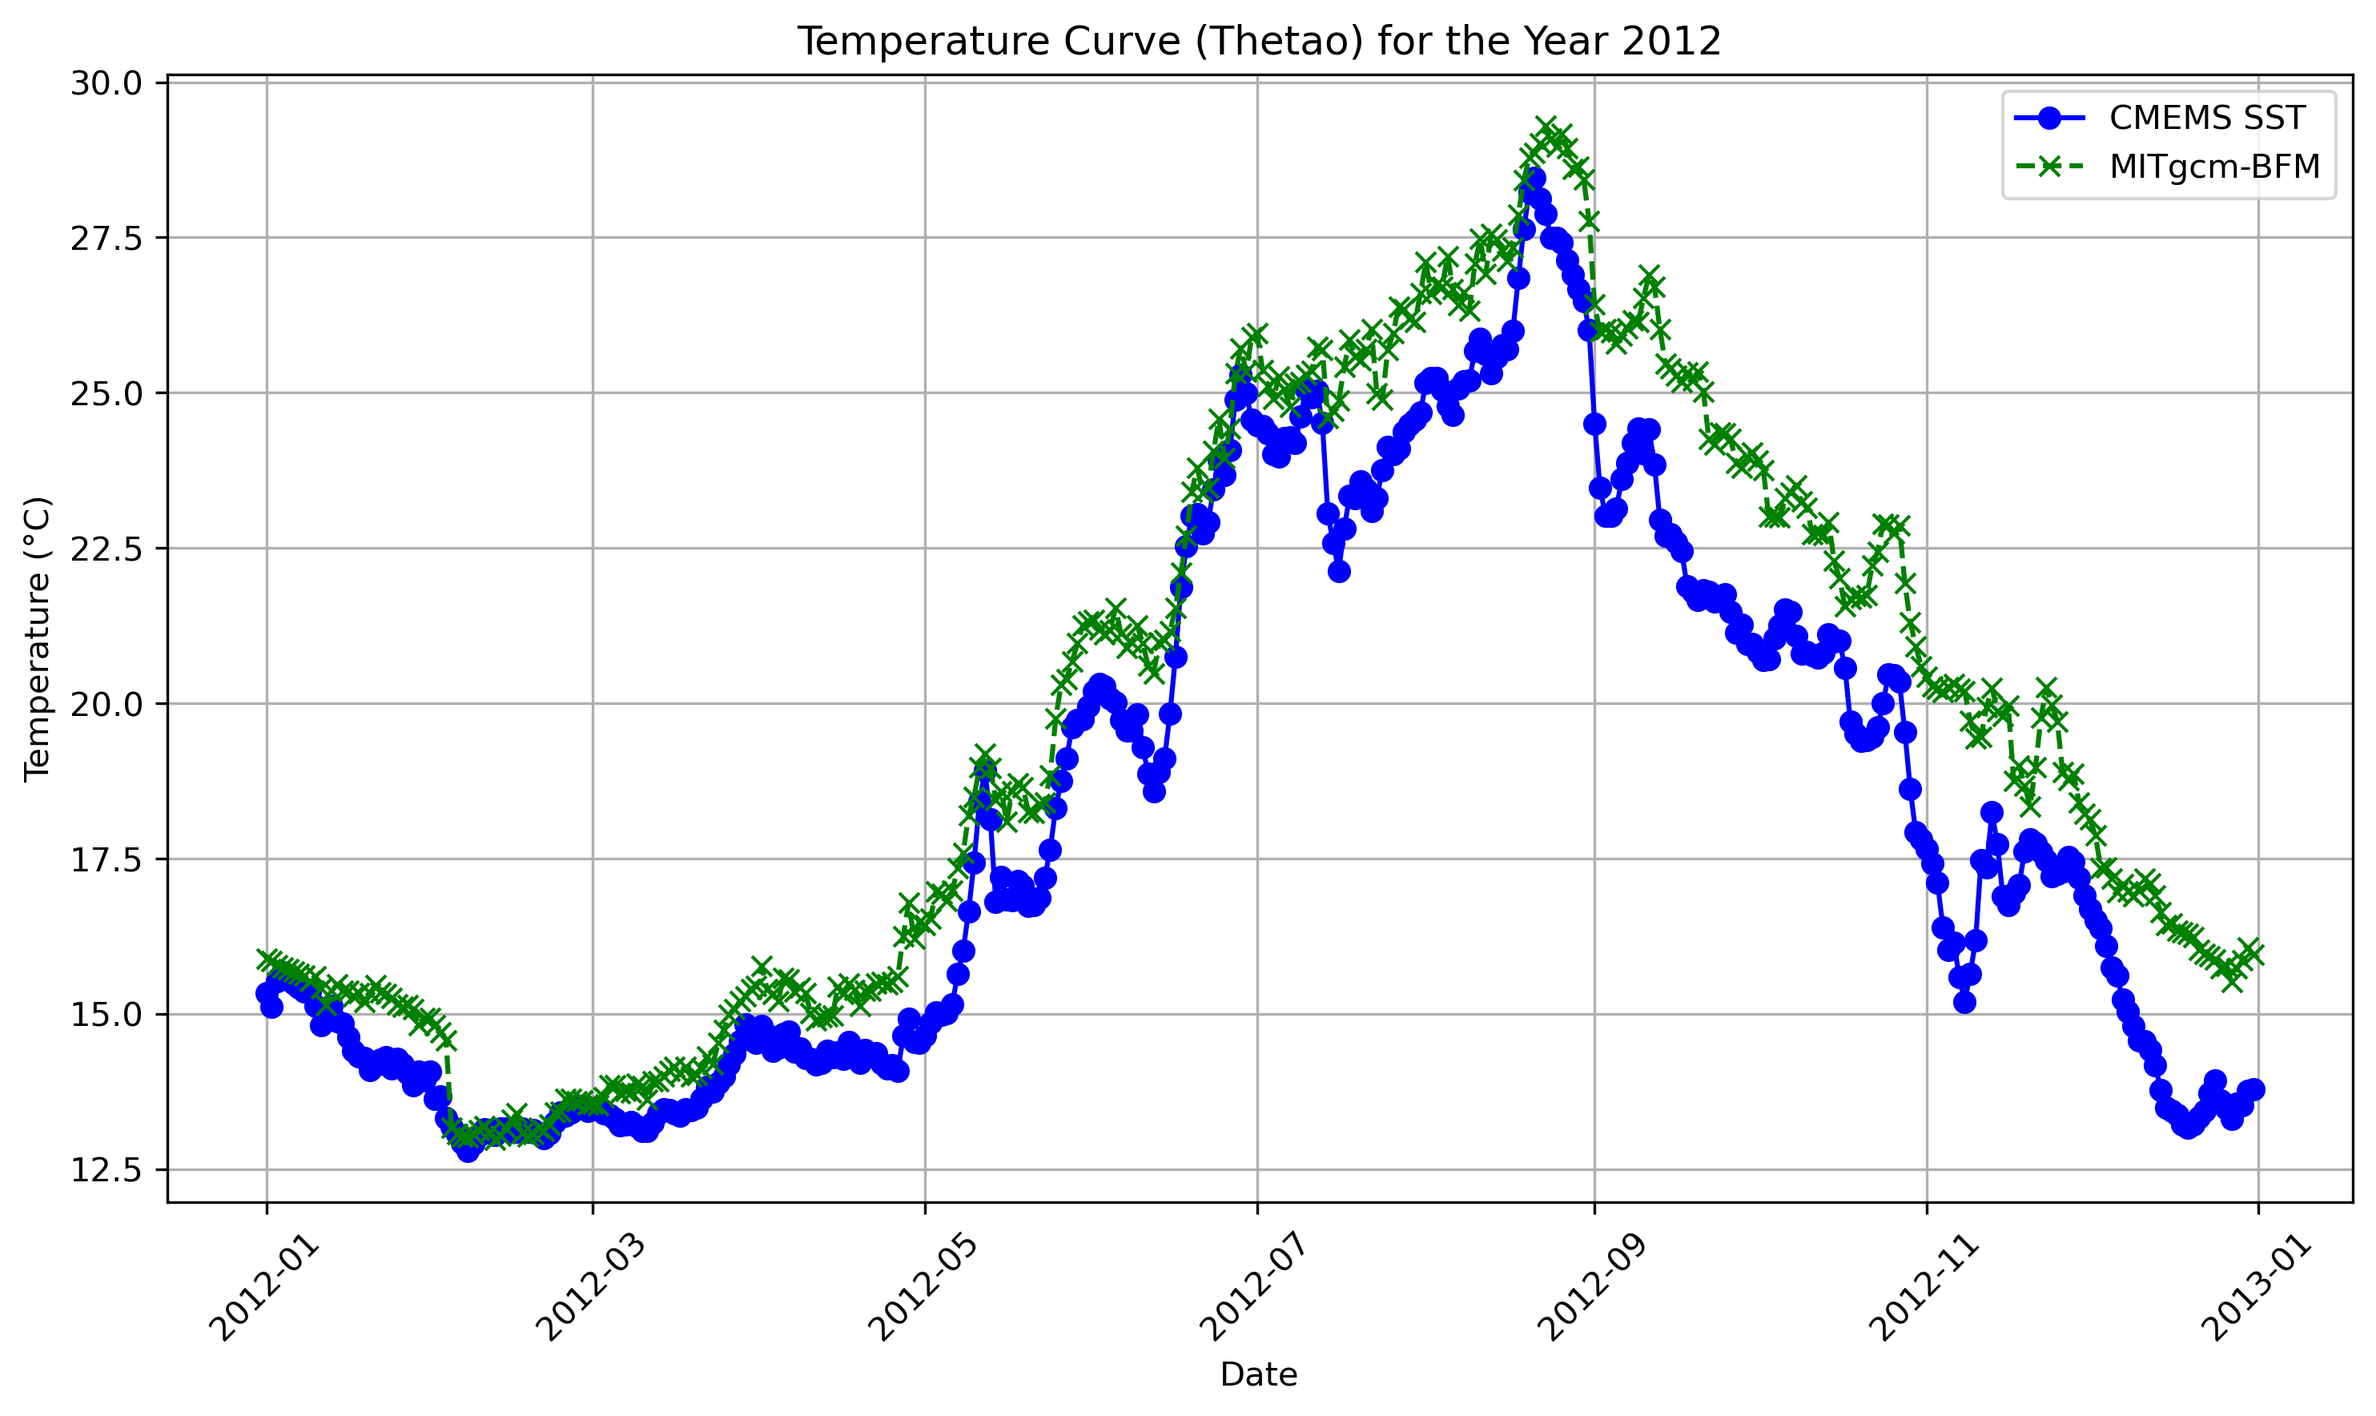
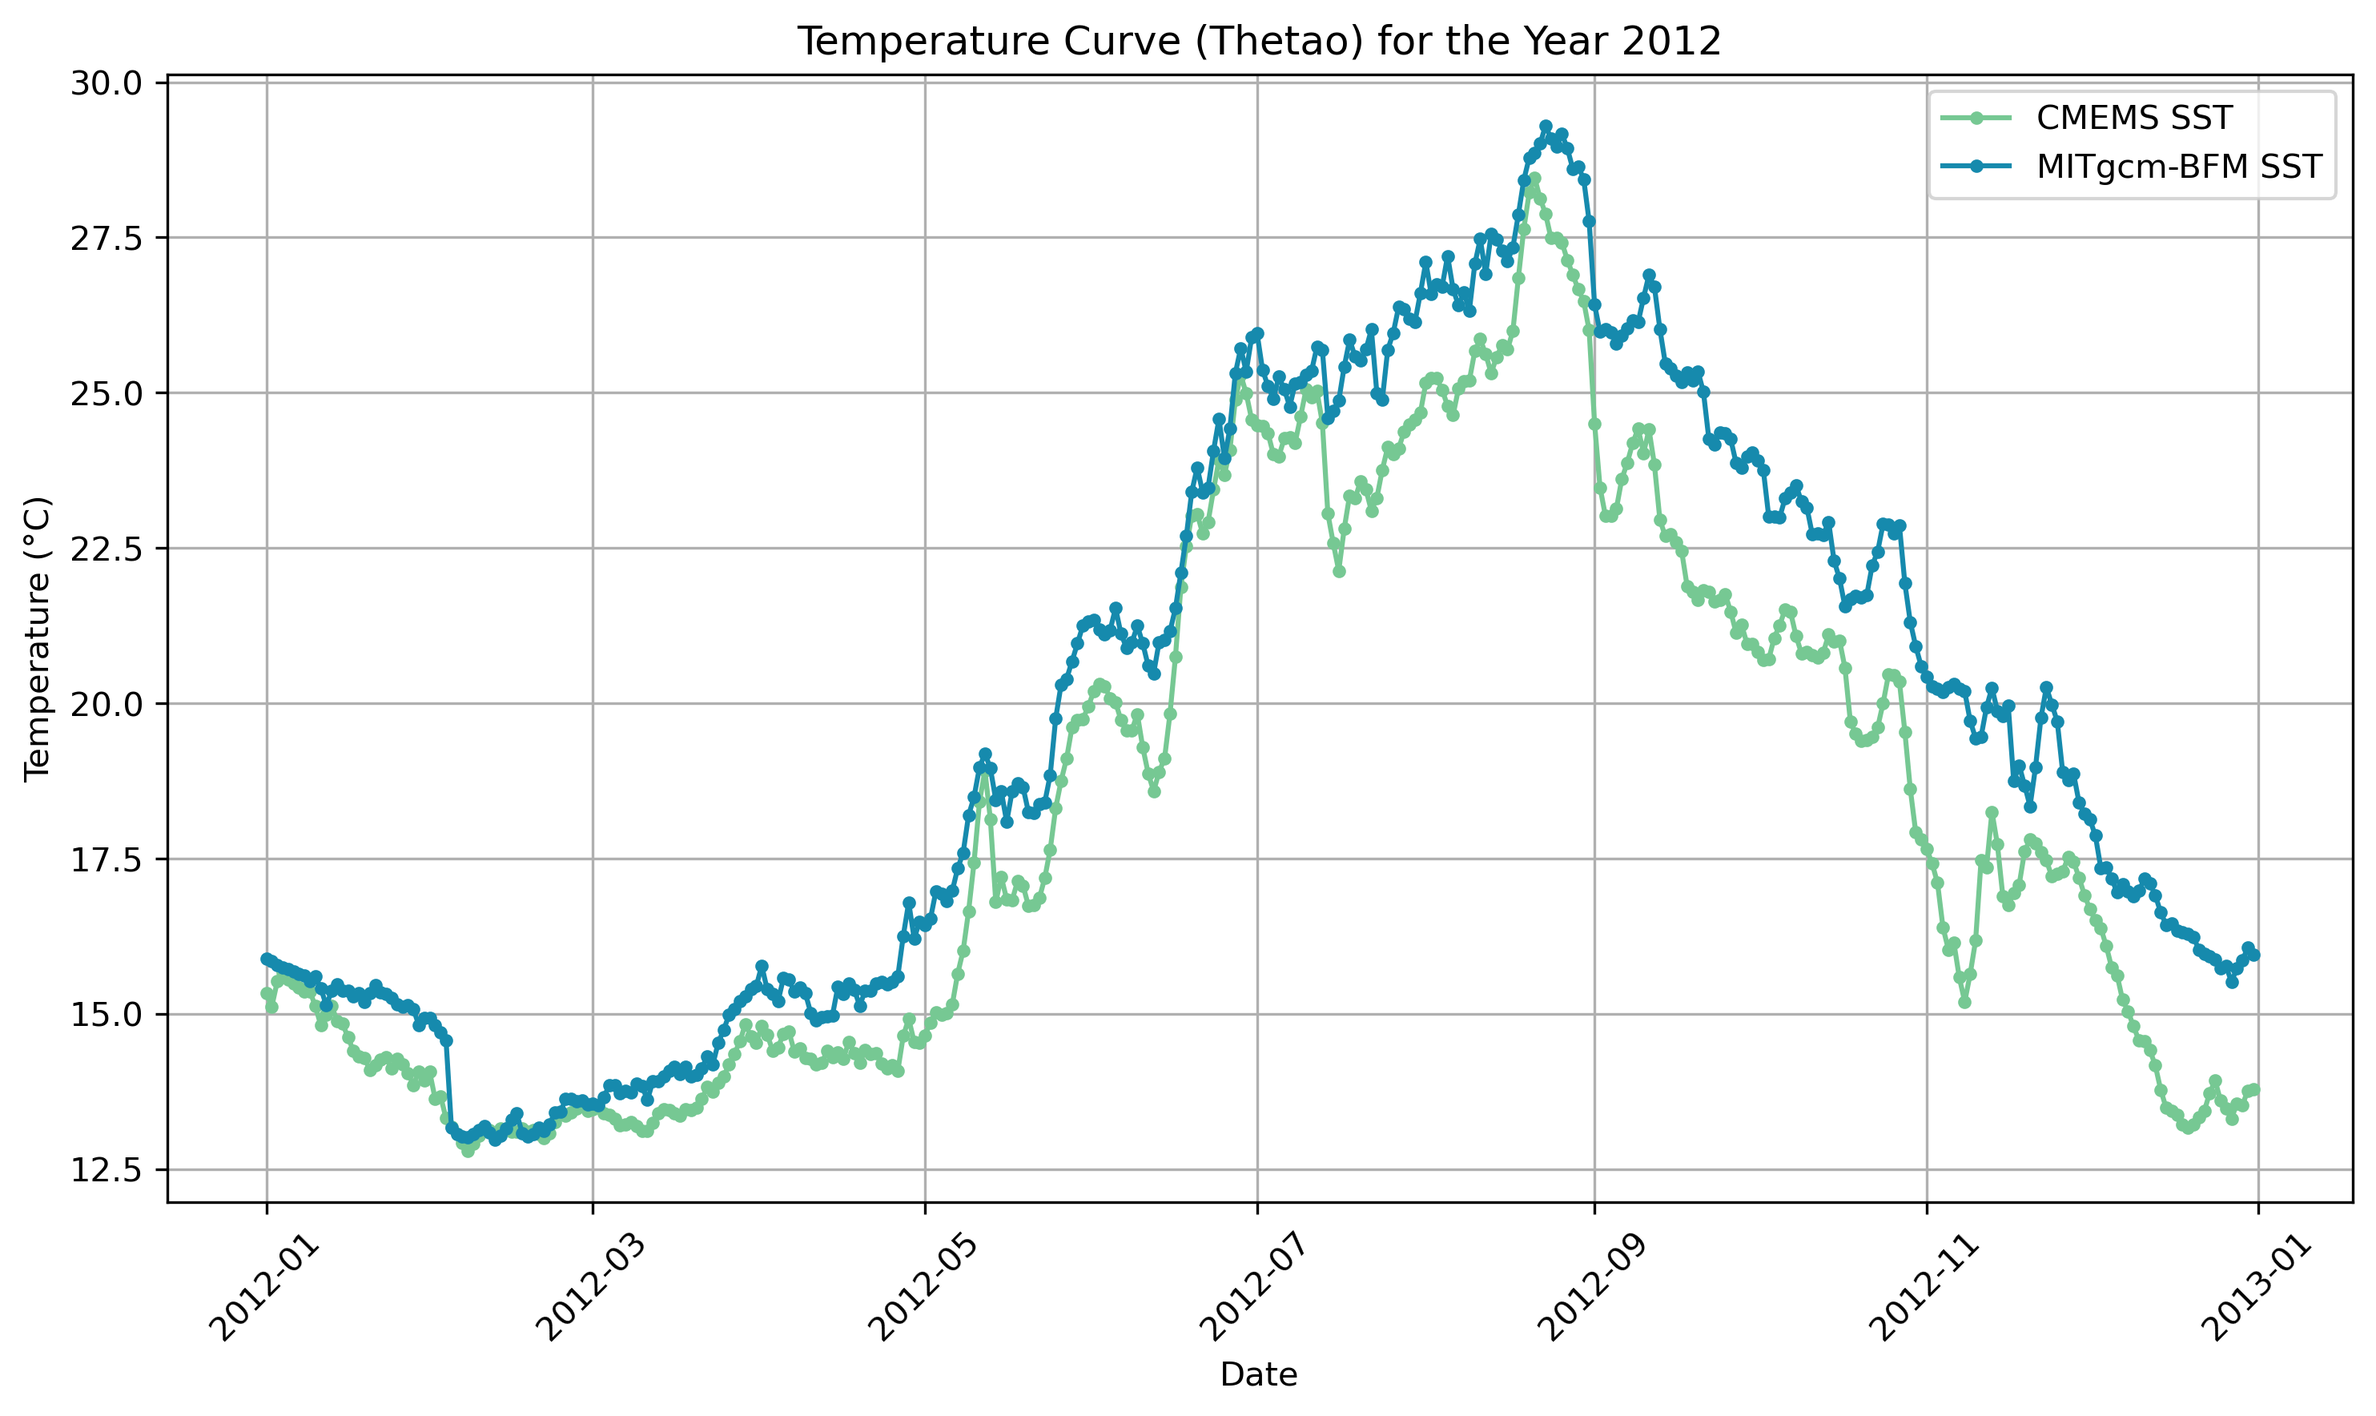
Documentated scripts and README.md

Changed region(s): [[0.186, 0.0933, 0.9612, 0.8399], [0.8062, 0.0622, 0.9922, 0.1244], [0.093, 0.6533, 0.2171, 0.7777]]

diff --git a/scripts/map_var_day.py b/scripts/map_var_day.py
@@ -1,3 +1,23 @@
+"""
+Script Name: map_cmems_mitgcm_var_day.py
+Author: Sara Polselli
+Date: 2025-02-27
+Description:
+    This script is used to create side by side maps of the required variable for comparing CMEMES Reanalysis and MITgcm-BFM datasets at given date.
+    It generates maps of the data (using depth 0 for CMEMES dataset and values linearly interpolated between depth 0 and 1 for MITgcm-BFM dataset).
+    
+    Features:
+    For each dataset (c-rean and m):
+    - Reads NetCDF data (time, variable, depth, and coordinates)
+    - Creates side by side maps using matplotlib. Tested with temp (thetao) and salinity (so)
+    - Saves output figure file (.png)
+    
+Usage:
+    python map_cmems_mitgcm_var_day.py 20130101 temp
+    python map_cmems_mitgcm_var_day.py 20130101 so
+    or interactively via VSCode or Jupyter and insert the date and variable when prompted
+"""
+
 # %% [markdown]
 ## Imports and setup
 # %%
@@ -19,7 +39,7 @@ except NameError:
     cwd = str(Path(__file__).resolve().parent.parent)  # command line
 
 # %% [markdown]
-### Import local settings and liabraries
+### Import local settings and libraries
 #%%
 import spitbran_config
 from lib import my_sys_utilities
@@ -47,7 +67,7 @@ target_var = my_sys_utilities.get_target_var(
 )
 
 #%% [markdown]
-### For each type of data (c or m) 
+### For each type of data (c-rean or m) 
 #   - load netCDF file and get the values for var
 #   - plot the maps
 #%%
@@ -67,29 +87,31 @@ m_ds = my_nc_utilities.get_values_map_specific_day(
 )
 
 # %%
-# Extract var data at the target time and depth indecies
+# Extract var data at the target time and depth indices 0 and 1
 # print(c_ds.variables.keys())
-# print(m_ds.variables['thetao'].dimensions)
-c_rean_var = c_rean_ds.variables['thetao'][0, 0, :, :]  # ('time', 'depth', 'latitude', 'longitude')
-# print(m_ds.variables['thetao'].dimensions)
+# print(m_ds.variables[spitbran_config.cfg_var_name[target_var][data_type]].dimensions)
+c_rean_var = c_rean_ds.variables[spitbran_config.cfg_var_name[target_var]["c-rean"]][0, 0, :, :]  # ('time', 'depth', 'latitude', 'longitude')
+# print(m_ds.variables[spitbran_config.cfg_var_name[target_var][data_type]].dimensions)
 
 # MITgcm: 3-hourly outputs so need to take average of the 8 values per day
 # First and second layer
-m_var_d0 = m_ds.variables['thetao'][:, 0, :, :].mean(axis=0)
-m_var_d1 = m_ds.variables['thetao'][:, 1, :, :].mean(axis=0)
-# m_ds.variables['thetao'].dimensions
-# units = m_ds.variables['thetao'].units
+m_var_d0 = m_ds.variables[spitbran_config.cfg_var_name[target_var]["m"]][:, 0, :, :].mean(axis=0)
+m_var_d1 = m_ds.variables[spitbran_config.cfg_var_name[target_var]["m"]][:, 1, :, :].mean(axis=0)
+# m_ds.variables[spitbran_config.cfg_var_name[target_var][data_type]].dimensions
+# units = m_ds.variables[spitbran_config.cfg_var_name[target_var][data_type]].units
 
 # Interpolate data of MITgcm output between depth 0 and depth 1
 #   m_ds.variables['depth'][:]
 #   0.75 m (first layer i.e. with depth index 0) and
 #   2.25 m (second layer i.e. with depth index 1)
 #   assuming linear interpolation
-int_factor = (1.01 - 0.75) / (2.25 - 0.75)
+depth_0 = 0.75
+depth_1 = 2.25
+int_factor = (1.01 - depth_0) / (depth_1 - depth_0)
 m_var_d0_int = (1 - int_factor) * m_var_d0 + int_factor * m_var_d1
 
 # %%
-# Compute element-wise comparison of m sst at first and second layer
+# Compute element-wise comparison of m var at first and second layer
 # m_var_d0_m_var_d1 = m_var_d0 == m_var_d1
 # Save to a text file
 # np.savetxt("m_var_d0_m_var_d1.txt", m_var_d0_m_var_d1, fmt='%s')
@@ -113,7 +135,7 @@ var_max = spitbran_config.cfg_var_min_max[target_var]["c-rean"][1]
 fig, axs = plt.subplots(1, 2, figsize=(12, 6), constrained_layout=True)
 fig.suptitle(f"{target_var} - {target_date} - day average")
 
-# Plot the first dataset (c Rean vor var - daily)
+# Plot the first dataset (c Rean var - daily)
 c_rean_im = my_plot_utilities.plot_map_minmax_nocb(
     axs[0],
     "CMEMS Reanalysis\n(depth 0 i.e. mt=1.01)",

diff --git a/scripts/map_var_compare_layers.py b/scripts/map_var_compare_layers.py
@@ -4,27 +4,23 @@ Script Name: map_cmems_mitgcm_var_compare_layers.py
 Author: Sara Polselli
 Date: 2025-02-27
 Description:
-    This script processes oceanographic data from NetCDF files, extracts temperature 
-    profiles, and generates visualizations of the data. 
-    Default variable is temperature (thetao) and default date is 20130101.
-    Defaults can be changed by providing the date and variable as command line arguments or at runtime in interactive mode.
+    This script is used to compare variable values at depth 0 and depth 1 from NetCDF files of the datasets set in the config file.
+    The c-obs dataset is not included in the comparison as it does not have layers but only sst.
+    It generates maps of the data at given date and depth.
     
     Features:
-    - Reads NetCDF data (temperature, depth, and coordinates)
+    For each dataset:
+    - Reads NetCDF data (time, variable, depth, and coordinates)
     - Creates side by side maps using matplotlib of layer 1 and layer 2 (depth 0 and 1) of required variable. Tested with temp (thetao) and salinity (so)
-    - Saves output figures in single files for comparison using image comparison tools
-    - Computes element-wise comparison of the two layers and plots the difference map (d0 - d1)
-    
+    - Saves output figures in single files (.png) for comparison using image comparison tools
+    - Computes element-wise comparison of the two layers and plots the difference map (d0 - d1) and creates a map of the difference
+    - Optionally prints the min and max values of the variable for debug purposes
+
 Usage:
     python map_cmems_mitgcm_var_compare_layers.py 20130101 temp
     python map_cmems_mitgcm_var_compare_layers.py 20130101 so
     or interactively via VSCode or Jupyter and insert the date and variable when prompted
 """
-
-import numpy as np
-import matplotlib.pyplot as plt
-from netCDF4 import Dataset
-import sys
 
 # %% [markdown]
 ## Imports and setup
@@ -157,9 +153,6 @@ for data_type in spitbran_config.cfg_datasets.keys():
 
         # Save image
         fig.savefig(rf"{cwd}/IMAGES/{target_var}-{target_date}--{var_min_across_layers}-{var_max_across_layers}--{data_type}--d0-d1.png", dpi=300, bbox_inches='tight')
-        
-        # Display the plots
-        fig.show()
 
         # Save each plot as a single image to be able to compare them side by side or with adequate image comparing software
         # Heading has been removed so that when comparing files with a comparison tool the images are not considered different only because of the heading
@@ -229,3 +222,6 @@ for data_type in spitbran_config.cfg_datasets.keys():
 
         # Save image
         fig_d0_d1_diff.savefig(rf"{cwd}/IMAGES/{target_var}--{target_date}--{var_min_across_layers}-{var_max_across_layers}--{data_type}--d0-d1-diff.png", dpi=300, bbox_inches='tight')
+
+# Display the plots
+plt.show()

diff --git a/scripts/plot_var_values_point_month.py b/scripts/plot_var_values_point_month.py
@@ -1,3 +1,23 @@
+"""
+Script Name: plot_var_values_point_month.py
+Author: Sara Polselli
+Date: 2025-02-27
+Description:
+    This script is used to see how a variable at a given point changes with time in the 3 datasets (CMEMS Reanalysis, CMEMS Observation, MITgcm output).
+    Lat, lon and depth index are fixed (set in config file).
+    
+    Features:
+    For each dataset (c-rean, c-obs and m):
+    - Reads NetCDF data (time and variable values at given depth and coordinates for given month)
+    - Creates time curves using matplotlib. Tested with temp (thetao) and salinity (so)
+    - Using webAgg backend, provides a link to localhost address for interactive legend to toggle visibility of curves
+    - Saves output figure file (.png)
+    
+Usage:
+    python plot_var_values_point_month.py 20130101 temp
+    python plot_var_values_point_month.py 20130101 so
+    or interactively via VSCode or Jupyter and insert the date and variable when prompted
+"""
 # %%
 ## Import libraries
 import matplotlib
@@ -59,7 +79,7 @@ var_long_name = {}
 var_units = {}
 var_daily_values = {}
 for data_type in spitbran_config.cfg_datasets.keys():
-    if (data_type != "c-obs"):
+    if not(data_type == "c-obs" and target_var == "so"):
         var_time[data_type], var_values[data_type], var_daily_values[data_type], var_long_name[data_type], var_units[data_type] = my_nc_utilities.get_values_in_point_with_time_given_month(
             data_type,
             spitbran_config.cfg_data_base_dirs[data_type],
@@ -73,7 +93,7 @@ for data_type in spitbran_config.cfg_datasets.keys():
         )
 
 # %%
-## Reset settinngs and close any previous plots
+## Reset settings and close any previous plots
 plt.rcdefaults()
 plt.close('all')
 
@@ -83,14 +103,15 @@ fig.clf()
 ax = fig.add_subplot(111)  
 
 lines = []
-for key, label in spitbran_config.cfg_datasets.items():
-    line, = ax.plot(
-        var_time[key], var_values[key],
-        marker=".", linestyle="solid",
-        color=spitbran_config.cfg_colours[key],
-        label=label
-    )
-    lines.append(line)
+for data_type, label in spitbran_config.cfg_datasets.items():
+    if not(data_type == "c-obs" and target_var == "so"):
+        line, = ax.plot(
+            var_time[data_type], var_values[data_type],
+            marker=".", linestyle="solid",
+            color=spitbran_config.cfg_colours[data_type],
+            label=label
+        )
+        lines.append(line)
 
 ## Check if daily values should be plotted
 if spitbran_config.cfg_var_d_values_flag[target_var]["m"]:

diff --git a/scripts/plot_sst_year.py b/scripts/plot_sst_year.py
@@ -19,6 +19,7 @@ else:                                  # Interactive window
 
 # Add the parent directory of the script to sys.path to allow working in command line mode
 sys.path.append(cwd)
+import spitbran_config
 from lib import my_sys_utilities
 
 # Check if requested date is a valid date
@@ -90,8 +91,21 @@ for m_data_search_dir_item in matches_m:
 
 # Plot the temperature curves
 plt.figure(figsize=(10, 6))
-plt.plot(c_dates, c_temperatures, marker='o', linestyle='-', color='b', label="CMEMS SST")
-plt.plot(c_dates, m_temperatures, marker='x', linestyle='--', color='g', label="MITgcm-BFM")
+plt.plot(
+    c_dates, 
+    c_temperatures, 
+    marker='.', 
+    linestyle='-', 
+    color=f"{spitbran_config.cfg_colours['c-rean']}", 
+    label="CMEMS SST"
+)
+plt.plot(
+    c_dates, 
+    m_temperatures, 
+    marker='.', 
+    linestyle='-', 
+    color=f"{spitbran_config.cfg_colours['m']}", 
+    label="MITgcm-BFM SST")
 
 # Add title, labels, and grid
 plt.title(f"Temperature Curve (Thetao) for the Year {requested_date}")

diff --git a/spitbran_config.py b/spitbran_config.py
@@ -1,4 +1,4 @@
-# Geo Location and depth
+# Geo Location and depth (for plotting time series)
 cfg_latitude = 44.0
 cfg_longitude = 9.0
 cfg_depth_index = 0

diff --git a/README.md b/README.md
@@ -1,8 +1,14 @@
 # MITgcm-BFM postprocessing
 
 MITgcm-BFM postprocessing contains scripts for comparing model output files with Copernicus Marine data (Reanalysis and Observations).
-- plot_cmems_mitgcm_var_values_point_month.py 
-    - plots the evolution in time of the values of a variable of interest in one point. The script has been tested with var temp (thetao in CMEMS Reanalysis and MITgcm and analysed_sst in CMEMS Observations)
+- map_var_compare_layers.py
+    - plots maps side by side of variable of interest at depth index 0 and depth index 1. Tested with temperature (input temp for thetao) and salinity (input so). Also plots map of difference.
+- map_var_day.py
+    - plots maps side by side of CMEMS Reanalysis and MITgcm-BFM output. Tested with temp and so.
+-plot_sst_year.py
+    - plots evolution in time of sst for given year.
+- plot_var_values_point_month.py 
+    - plots the evolution in time of the values of a variable of interest in one point. Tested with var temp (thetao in CMEMS Reanalysis and MITgcm and analysed_sst in CMEMS Observations) and so (salinity).
 
 ## Prerequisites
 - Create a conda environment with the following packages:
@@ -24,14 +30,22 @@ cfg_data_base_dirs = {
     "m": r"/OCEANASTORE/progetti/spitbran2"
 }
 ```
-- Run script:
+- Run scripts:
     - Interactively: Open the python script and run it in interactive window either via Visual Studio Code or on the Jupyter web innterface
-        - In this case the script asks to input the values of required variables (if data is not found no error is handled gracefully this needs more development)
+        - In this case the script prompts to input the values of required variables (if data is not found no error is handled gracefully this needs more development)
     - Via command line pass the variables values as arguments, e.g.: 
         ```python
-        python plot_cmems_mitgcm_var_values_point_month.py 201211 temp
+        python plot_var_values_point_month.py 201211 temp
         ```
 
 # Expected results
-The script provides a link to open the result on a web page. This has the advantage of providing a certain degree of interactivity where the visibility of the curves can be toggled by clicking on the corresponding line in the legend.
-The script also saves the result in a static image.
+- map_var_compare_layers.py 
+    - side by side maps of first and second layers for comparison of cmems reanalysis and MITgcm at given day. 
+    - single static images (.png) of each layer for later comparison using an image/file comparison tool
+    - comparison map for both cmems reanalysis and MITgcm run
+    Tested with temp (thetao) and salinity (so).
+- map_var_day.py 
+    - maps side by side of cmems reanalysis and MITgcm on given day 
+- plot_var_values_point_month.py 
+    - provides a link to open the result on a web page on localhost (needs portforwarding if not done automatically). This, i.e. the use of matplotlib.use('webAgg') has the advantage of providing a certain degree of interactivity where the visibility of the curves can be toggled by clicking on the corresponding line in the legend.
+    - static image (.png) of the same plot.
